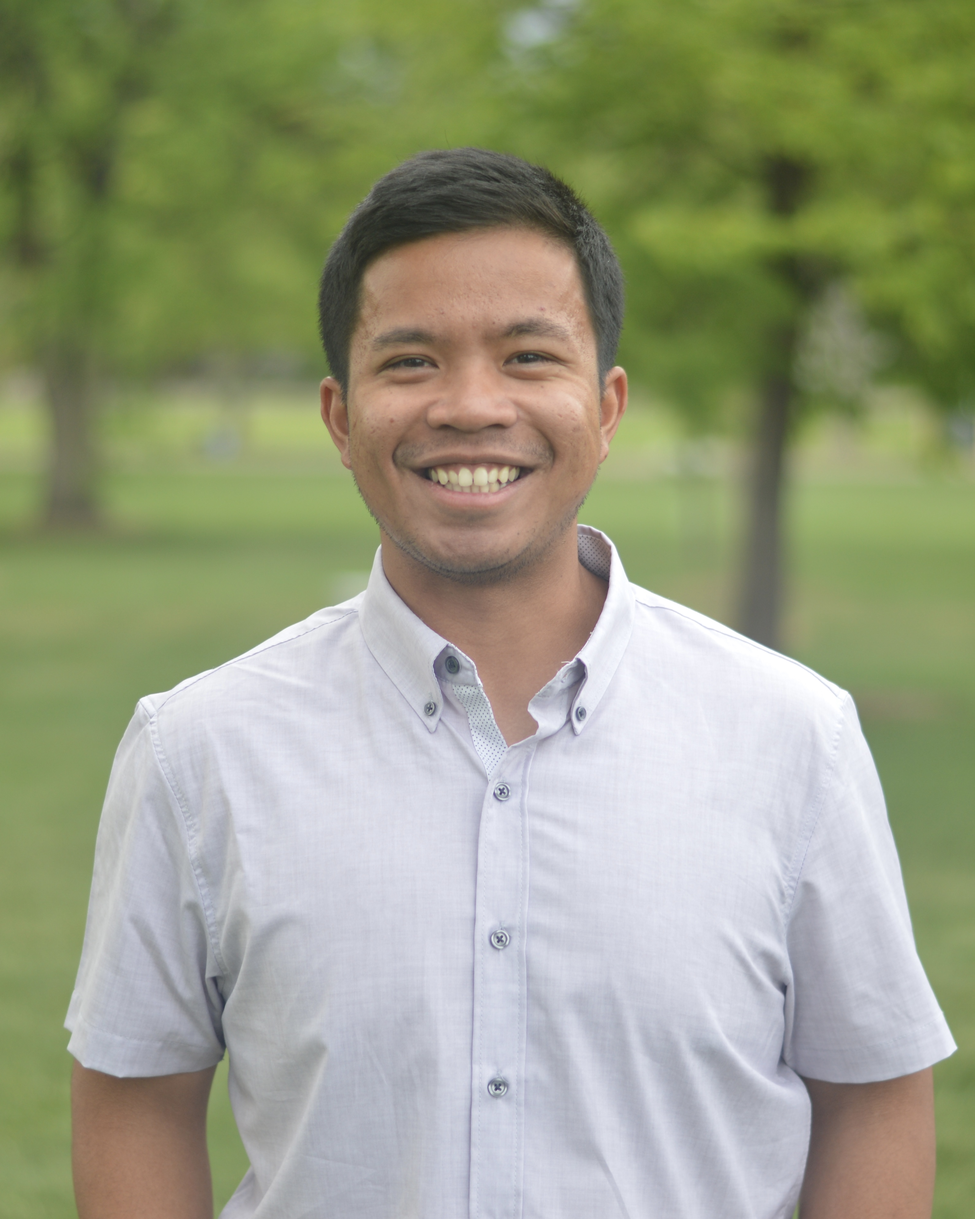
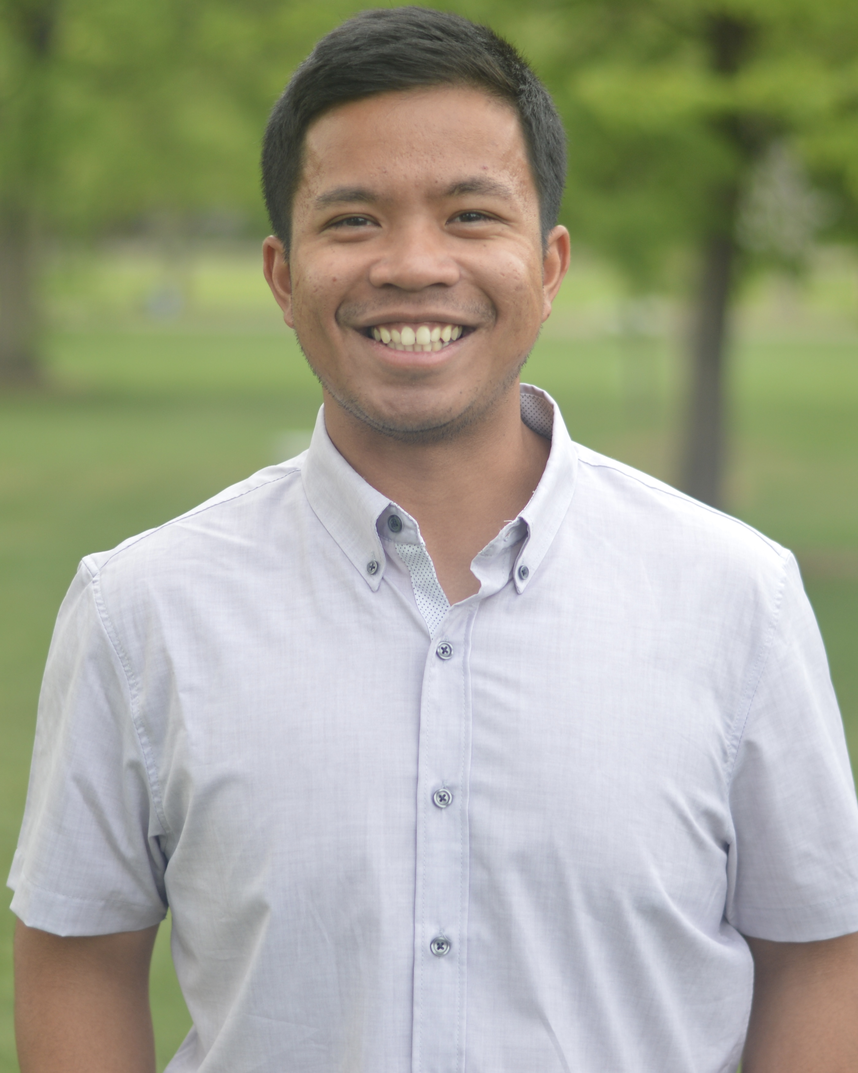
fix typo, crop photo

diff --git a/_pages/cv.md b/_pages/cv.md
@@ -21,13 +21,15 @@ redirect_from:
 **Professional Appointments**
 
 ---
+**2023 Summer -** Graduate Research Assistant (Ph.D.), Colorado State University
+* Advisor: Michael M. Bell
 
 **2024 Summer** Carl-Gustaf Rossbypalooza Summer School, University of Chicago 
-* Host: William Boos
+* Host: William R. Boos
 * Project: Using a New, High-resolution Solver to Understand Tropical Stationary Waves Forced by the Thermal and Mechanical Effects of Orography 
 
-**2021 Fall - 2018 Spring** Graduate Research Assistant (M.S.), Colorado State University
-* Advisor: Michael Bell
+**2021 Fall - 2023 Spring** Graduate Research Assistant (M.S.), Colorado State University
+* Advisor: Michael M. Bell
 * Thesis: A Potential Vorticity Diagnosis of Tropical Cyclone Track Forecast Errors 
 
 **2021 Summer** Research Intern, Geophysical Fluid Dynamics Laboratory, Princeton
@@ -35,7 +37,7 @@ redirect_from:
 * Topic: Evaluating the Impacts of Initial Conditions on Hurricane Movement in the High-Resolution Global Models
 
 **2019 Spring - 2020 Fall** Undergraduate Research Assistant (B.S.), Scripps Institution of Oceanography, UC San Diego 
-* Advisor: Amato Evan
+* Advisor: Amato T. Evan
 * Topic: Mechanisms Forcing the Diurnal Cycle of Dust in an Arid Closed Basin
 
 
